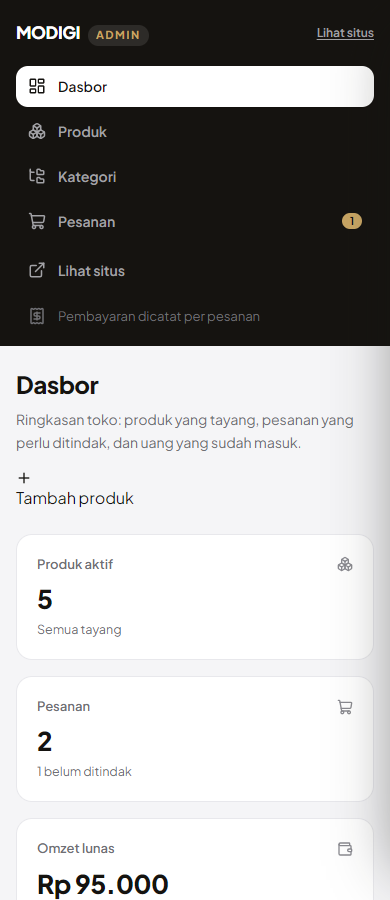
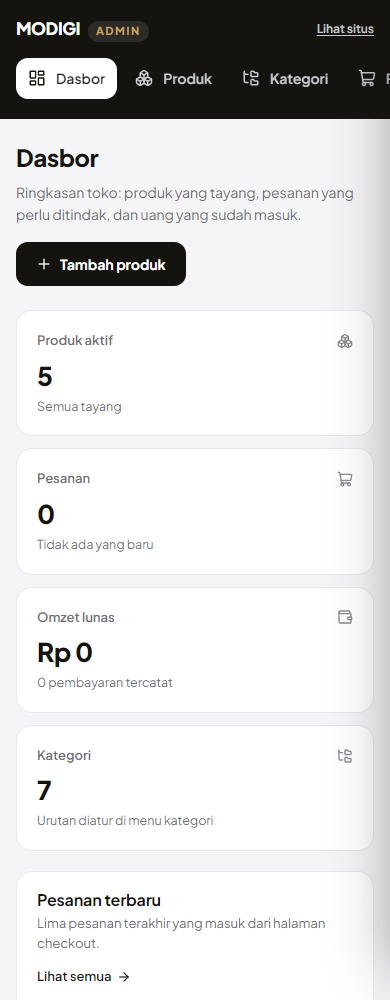
Perbaiki tata letak dashboard admin di layar lebar dan gaya tombolnya
Dua masalah nyata yang terlihat di tangkapan layar:

1. Gaya tombol hilang. `tombol` diekspor dari `components/admin/buttons.tsx`
   yang ber-"use client", sehingga saat dipakai Server Component nilainya
   menjadi client reference — `className` jadi kosong dan tombolnya kehilangan
   latar, padding, serta `display: flex` (ikon dan teks bertumpuk vertikal).
   Konstanta gayanya dipindah ke `components/admin/tombol.ts` (modul biasa),
   sementara `buttons.tsx` hanya mengekspor komponen yang butuh useFormStatus.

2. Sidebar mengambang di layar >=1500px karena pembungkus ber-max-width ada di
   seluruh halaman, bukan di kontennya. Sekarang sidebar menempel di tepi kiri
   setinggi layar dan lebar kontennya dibatasi di dalam <main>.

Di layar kecil, menu jadi baris geser horizontal (tinggi header turun dari
346px jadi 119px), pintasan dasbor tersusun dua kolom, dan kartu "Pesanan
terbaru" tidak lagi melar mengikuti kartu di sebelahnya.

Diukur di 5 lebar layar x 5 halaman: overflow 0, tidak ada target sentuh
< 24px, kontras teks terendah 4,6:1, satu <h1> per halaman.

🤖 Generated with Codebuff

diff --git a/src/components/admin/admin-shell.tsx b/src/components/admin/admin-shell.tsx
@@ -7,7 +7,17 @@ import { keluarAction } from "@/app/actions/admin";
 import { AdminNav } from "@/components/admin/admin-nav";
 
 /**
- * Kerangka dashboard: sidebar gelap (desktop kiri, konten kanan).
+ * Kerangka dashboard.
+ *
+ * Tata letaknya sengaja sederhana supaya tetap benar di semua lebar:
+ * - **Sidebar menempel di tepi kiri** dan setinggi layar (desktop). Tidak ada
+ *   pembungkus ber-`max-width` di sekelilingnya — kalau ada, sidebar-nya "mengambang"
+ *   dengan celah kosong di kiri pada layar ≥1500px.
+ * - **Lebar konten dibatasi di dalam `<main>`**, bukan di seluruh halaman, jadi
+ *   kartu & formulir tetap enak dibaca di monitor lebar sementara sidebar tetap
+ *   menempel di tepi.
+ * - **Di layar kecil** sidebar jadi header ringkas: nama brand + baris menu yang
+ *   bisa digeser ke samping (pola yang sama dengan chip kategori di situs depan).
  *
  * Tombol "Keluar" memakai `<form action={...}>` server action — jadi logout tetap
  * jalan walau JavaScript belum sempat termuat.
@@ -24,9 +34,9 @@ export function AdminShell({
 }) {
   return (
     <div className="min-h-dvh bg-[#f5f5f7] text-[#151310]">
-      <div className="mx-auto flex max-w-[1500px] flex-col lg:flex-row">
-        <aside className="shrink-0 bg-[#151310] px-4 py-5 lg:sticky lg:top-0 lg:h-screen lg:w-[252px] lg:px-4 lg:py-6">
-          <div className="flex items-center justify-between gap-3 lg:block">
+      <div className="flex min-h-dvh flex-col lg:flex-row">
+        <aside className="shrink-0 bg-[#151310] px-4 py-4 lg:sticky lg:top-0 lg:h-dvh lg:w-[252px] lg:self-start lg:px-4 lg:py-6">
+          <div className="flex items-center justify-between gap-3">
             <Link href="/admin" className="flex items-baseline gap-2">
               <span className="text-[17px] font-extrabold tracking-tight text-white">MODIGI</span>
               <span className="rounded-full bg-white/10 px-2 py-0.5 text-[11px] font-bold tracking-[0.14em] text-[#c9a664] uppercase">
@@ -36,25 +46,25 @@ export function AdminShell({
 
             <Link
               href="/"
-              className="inline-flex min-h-6 items-center text-[12px] font-semibold text-[#a2a2a6] underline underline-offset-2 lg:hidden"
+              className="inline-flex min-h-6 items-center text-[12px] font-semibold text-[#c9c9ce] underline underline-offset-2 lg:hidden"
             >
               Lihat situs
             </Link>
           </div>
 
-          <div className="mt-5 lg:mt-7">
+          <div className="mt-4 lg:mt-7">
             <AdminNav lencanaPesanan={lencanaPesanan} />
           </div>
 
           <div className="mt-6 hidden border-t border-white/10 pt-4 lg:block">
-            <p className="truncate text-[12px] text-[#a2a2a6]" title={akun}>
+            <p className="truncate text-[12px] text-[#c9c9ce]" title={akun}>
               {akun}
             </p>
 
             <form action={keluarAction} className="mt-2">
               <button
                 type="submit"
-                className="inline-flex min-h-6 items-center gap-2 text-[13px] font-semibold text-[#a2a2a6] transition-colors hover:text-white"
+                className="inline-flex min-h-6 items-center gap-2 text-[13px] font-semibold text-[#c9c9ce] transition-colors hover:text-white"
               >
                 <LogOut className="size-4" aria-hidden="true" />
                 Keluar
@@ -63,8 +73,8 @@ export function AdminShell({
           </div>
         </aside>
 
-        <main className="min-w-0 flex-1 pb-16">
-          <div className="px-4 py-5 sm:px-6 lg:px-8 lg:py-8">
+        <main className="min-w-0 flex-1">
+          <div className="mx-auto w-full max-w-[1240px] px-4 py-5 sm:px-6 lg:px-8 lg:py-8">
             {children}
 
             <form action={keluarAction} className="mt-10 lg:hidden">
@@ -73,7 +83,7 @@ export function AdminShell({
                 className="inline-flex min-h-6 items-center gap-2 text-[13px] font-semibold text-[#6f6f74] underline underline-offset-2"
               >
                 <LogOut className="size-4" aria-hidden="true" />
-                Keluar dari {akun}
+                Keluar dari {akun.toLowerCase()}
               </button>
             </form>
           </div>

diff --git a/src/app/(admin)/admin/(panel)/page.tsx b/src/app/(admin)/admin/(panel)/page.tsx
@@ -11,7 +11,7 @@ import {
   Wallet,
 } from "lucide-react";
 
-import { tombol } from "@/components/admin/buttons";
+import { tombol } from "@/components/admin/tombol";
 import { Alert, Card, PageHeader, Pill, statusPesananNada } from "@/components/admin/ui";
 import { cloudinarySiap } from "@/lib/cloudinary";
 import { formatRupiah, formatWaktu } from "@/lib/format";
@@ -112,7 +112,7 @@ export default async function DasborPage() {
         </Alert>
       ) : null}
 
-      <div className="grid gap-4 sm:grid-cols-2 xl:grid-cols-4">
+      <div className="grid gap-3 sm:grid-cols-2 xl:grid-cols-4 xl:gap-4">
         {statistik.map(({ label, value, catatan, href, icon: Icon }) => (
           <Link
             key={label}
@@ -133,7 +133,9 @@ export default async function DasborPage() {
         ))}
       </div>
 
-      <div className="mt-5 grid gap-5 lg:grid-cols-[1.4fr_1fr]">
+      {/* `items-start`: kartunya setinggi isinya masing-masing, jadi keadaan kosong
+          tidak dipaksa melar mengikuti kartu di sebelahnya. */}
+      <div className="mt-5 grid items-start gap-5 lg:grid-cols-[1.5fr_1fr]">
         <Card
           title="Pesanan terbaru"
           description="Lima pesanan terakhir yang masuk dari halaman checkout."
@@ -149,7 +151,7 @@ export default async function DasborPage() {
           bodyClassName="px-0 py-0"
         >
           {(pesananTerbaru.data ?? []).length === 0 ? (
-            <p className="px-5 py-8 text-center text-[13.5px] text-[#6f6f74]">
+            <p className="px-5 py-10 text-center text-[13.5px] leading-relaxed text-[#6f6f74]">
               Belum ada pesanan. Pesanan muncul di sini begitu pembeli menekan
               <span className="font-semibold"> Buat Pesanan</span> di halaman checkout.
             </p>
@@ -181,28 +183,40 @@ export default async function DasborPage() {
         </Card>
 
         <Card title="Yang sering dipakai" description="Pintasan ke pekerjaan harian.">
-          <ul className="flex flex-col gap-3">
+          <ul className="grid gap-3 sm:grid-cols-2 lg:grid-cols-1 xl:grid-cols-2">
             <li>
-              <Link href="/admin/produk/baru" className={tombol.kedua + " w-full justify-start"}>
-                <Plus className="size-4" aria-hidden="true" />
+              <Link
+                href="/admin/produk/baru"
+                className={tombol.kedua + " w-full justify-start gap-2.5 text-[13.5px]"}
+              >
+                <Plus className="size-4 shrink-0" aria-hidden="true" />
                 Tambah produk baru
               </Link>
             </li>
             <li>
-              <Link href="/admin/produk" className={tombol.kedua + " w-full justify-start"}>
-                <CloudUpload className="size-4" aria-hidden="true" />
-                Unggah & ganti gambar produk
+              <Link
+                href="/admin/produk"
+                className={tombol.kedua + " w-full justify-start gap-2.5 text-[13.5px]"}
+              >
+                <CloudUpload className="size-4 shrink-0" aria-hidden="true" />
+                Unggah & ganti gambar
               </Link>
             </li>
             <li>
-              <Link href="/admin/kategori" className={tombol.kedua + " w-full justify-start"}>
-                <FolderTree className="size-4" aria-hidden="true" />
-                Atur kategori & urutannya
+              <Link
+                href="/admin/kategori"
+                className={tombol.kedua + " w-full justify-start gap-2.5 text-[13.5px]"}
+              >
+                <FolderTree className="size-4 shrink-0" aria-hidden="true" />
+                Atur kategori & urutan
               </Link>
             </li>
             <li>
-              <Link href="/admin/pesanan" className={tombol.kedua + " w-full justify-start"}>
-                <Receipt className="size-4" aria-hidden="true" />
+              <Link
+                href="/admin/pesanan"
+                className={tombol.kedua + " w-full justify-start gap-2.5 text-[13.5px]"}
+              >
+                <Receipt className="size-4 shrink-0" aria-hidden="true" />
                 Catat pembayaran masuk
               </Link>
             </li>

diff --git a/src/components/admin/admin-nav.tsx b/src/components/admin/admin-nav.tsx
@@ -1,6 +1,6 @@
 "use client";
 
-import { Boxes, ExternalLink, FolderTree, LayoutDashboard, Receipt, ShoppingCart } from "lucide-react";
+import { Boxes, ExternalLink, FolderTree, LayoutDashboard, ShoppingCart } from "lucide-react";
 import Link from "next/link";
 import { usePathname } from "next/navigation";
 import type { ComponentType } from "react";
@@ -16,7 +16,12 @@ type Menu = {
 };
 
 /**
- * Menu sidebar dashboard.
+ * Menu dashboard.
+ *
+ * Dua bentuk dari satu daftar yang sama:
+ * - **< lg**: baris geser horizontal di bawah nama brand — hemat tinggi layar,
+ *   pola yang sama dengan chip kategori di situs depan.
+ * - **≥ lg**: kolom vertikal di sidebar.
  *
  * Satu komponen klien kecil hanya untuk menandai halaman aktif (`usePathname`) —
  * sisanya tetap server component, jadi data tidak ikut dikirim ke browser.
@@ -35,7 +40,10 @@ export function AdminNav({ lencanaPesanan }: { lencanaPesanan: number }) {
     href === "/admin" ? pathname === "/admin" : pathname.startsWith(href);
 
   return (
-    <nav aria-label="Menu dashboard" className="flex flex-col gap-1">
+    <nav
+      aria-label="Menu dashboard"
+      className="-mx-4 flex gap-1.5 overflow-x-auto px-4 pb-1 lg:mx-0 lg:flex-col lg:gap-1 lg:overflow-visible lg:px-0 lg:pb-0 [scrollbar-width:none] [&::-webkit-scrollbar]:hidden"
+    >
       {menu.map(({ label, href, icon: Icon, lencana }) => {
         const ini = aktif(href);
 
@@ -45,12 +53,12 @@ export function AdminNav({ lencanaPesanan }: { lencanaPesanan: number }) {
             href={href}
             aria-current={ini ? "page" : undefined}
             className={cn(
-              "flex items-center gap-3 rounded-xl px-3 py-2.5 text-[14px] font-semibold transition-colors",
-              ini ? "bg-white text-[#151310] shadow-sm" : "text-[#a2a2a6] hover:bg-white/5 hover:text-white",
+              "flex shrink-0 items-center gap-2.5 rounded-xl px-3 py-2.5 text-[14px] font-semibold whitespace-nowrap transition-colors lg:gap-3",
+              ini ? "bg-white text-[#151310] shadow-sm" : "text-[#c9c9ce] hover:bg-white/5 hover:text-white",
             )}
           >
             <Icon className="size-[18px] shrink-0" aria-hidden="true" />
-            <span className="flex-1">{label}</span>
+            <span>{label}</span>
 
             {lencana ? (
               <span className="tabular grid min-w-5 place-items-center rounded-full bg-[#c9a664] px-1.5 text-[11px] font-bold text-[#151310]">
@@ -63,16 +71,11 @@ export function AdminNav({ lencanaPesanan }: { lencanaPesanan: number }) {
 
       <Link
         href="/"
-        className="mt-1 flex items-center gap-3 rounded-xl px-3 py-2.5 text-[14px] font-semibold text-[#a2a2a6] transition-colors hover:bg-white/5 hover:text-white"
+        className="hidden min-h-6 items-center gap-3 rounded-xl px-3 py-2.5 text-[14px] font-semibold text-[#c9c9ce] transition-colors hover:bg-white/5 hover:text-white lg:mt-1 lg:flex"
       >
         <ExternalLink className="size-[18px] shrink-0" aria-hidden="true" />
         Lihat situs
       </Link>
-
-      <span className="mt-3 flex items-center gap-3 px-3 text-[13px] text-[#6f6f74]">
-        <Receipt className="size-[18px] shrink-0" aria-hidden="true" />
-        Pembayaran dicatat per pesanan
-      </span>
     </nav>
   );
 }

diff --git a/src/components/admin/buttons.tsx b/src/components/admin/buttons.tsx
@@ -3,6 +3,7 @@
 import { Loader2 } from "lucide-react";
 import { useFormStatus } from "react-dom";
 
+import { tombol, type VarianTombol } from "@/components/admin/tombol";
 import { cn } from "@/lib/utils";
 
 /**
@@ -15,19 +16,10 @@ import { cn } from "@/lib/utils";
  *
  * Keduanya ditaruh DI DALAM `<form action={...}>` — jadi kalau JavaScript belum
  * termuat, form-nya tetap bisa dikirim (hanya tanpa konfirmasi/pending state).
+ *
+ * Gaya tombolnya ada di `tombol.ts` (modul biasa) — lihat penjelasan di sana soal
+ * kenapa tidak boleh diekspor dari file `"use client"`.
  */
-
-/** Gaya tombol bersama. */
-export const tombol = {
-  utama:
-    "inline-flex h-11 items-center justify-center gap-2 rounded-xl bg-[#151310] px-5 text-[14px] font-bold text-white transition-colors hover:bg-[#2a2723] focus-visible:ring-2 focus-visible:ring-[#151310]/30 focus-visible:outline-none disabled:opacity-60",
-  kedua:
-    "inline-flex h-11 items-center justify-center gap-2 rounded-xl border border-[#e2e2e7] bg-white px-5 text-[14px] font-bold text-[#151310] transition-colors hover:bg-[#f7f7f9] focus-visible:ring-2 focus-visible:ring-[#151310]/20 focus-visible:outline-none disabled:opacity-60",
-  kecil:
-    "inline-flex h-9 items-center justify-center gap-1.5 rounded-lg border border-[#e2e2e7] bg-white px-3 text-[13px] font-semibold text-[#3a3a3f] transition-colors hover:bg-[#f7f7f9] focus-visible:ring-2 focus-visible:ring-[#151310]/20 focus-visible:outline-none disabled:opacity-60",
-  bahaya:
-    "inline-flex h-9 items-center justify-center gap-1.5 rounded-lg border border-[#f0d5d1] bg-[#fdf4f3] px-3 text-[13px] font-semibold text-[#a32b1d] transition-colors hover:bg-[#fbe9e7] focus-visible:ring-2 focus-visible:ring-[#a32b1d]/25 focus-visible:outline-none disabled:opacity-60",
-} as const;
 
 export function SubmitButton({
   children,
@@ -37,7 +29,7 @@ export function SubmitButton({
 }: {
   children: React.ReactNode;
   pendingLabel?: string;
-  variant?: keyof typeof tombol;
+  variant?: VarianTombol;
   className?: string;
 }) {
   const { pending } = useFormStatus();
@@ -60,7 +52,7 @@ export function ConfirmSubmit({
   children: React.ReactNode;
   /** Pertanyaan konfirmasi, mis. "Hapus produk ini?" */
   message: string;
-  variant?: keyof typeof tombol;
+  variant?: VarianTombol;
   className?: string;
   title?: string;
 }) {

diff --git a/src/components/admin/tombol.ts b/src/components/admin/tombol.ts
@@ -1,0 +1,25 @@
+/**
+ * Gaya tombol dashboard — **modul biasa, TANPA `"use client"`**.
+ *
+ * Ini bukan detail gaya penulisan: nilai yang diekspor dari file `"use client"`
+ * berubah menjadi *client reference* saat diimpor oleh Server Component. Dipakai
+ * sebagai `className`, nilainya jadi kosong — tombolnya kehilangan latar, padding,
+ * dan `display: flex`, sehingga ikon dan teksnya bertumpuk vertikal. Itu yang
+ * terjadi pada versi pertama dashboard ini.
+ *
+ * Karena itu kelas tombolnya tinggal di file `.ts` biasa (dipakai server component
+ * maupun client component), sedangkan `buttons.tsx` (yang butuh `useFormStatus`)
+ * hanya mengekspor komponennya.
+ */
+export type VarianTombol = keyof typeof tombol;
+
+export const tombol = {
+  utama:
+    "inline-flex h-11 items-center justify-center gap-2 rounded-xl bg-[#151310] px-5 text-[14px] font-bold text-white transition-colors hover:bg-[#2a2723] focus-visible:ring-2 focus-visible:ring-[#151310]/30 focus-visible:outline-none disabled:opacity-60",
+  kedua:
+    "inline-flex h-11 items-center justify-center gap-2 rounded-xl border border-[#e2e2e7] bg-white px-5 text-[14px] font-bold text-[#151310] transition-colors hover:bg-[#f7f7f9] focus-visible:ring-2 focus-visible:ring-[#151310]/20 focus-visible:outline-none disabled:opacity-60",
+  kecil:
+    "inline-flex h-9 items-center justify-center gap-1.5 rounded-lg border border-[#e2e2e7] bg-white px-3 text-[13px] font-semibold text-[#3a3a3f] transition-colors hover:bg-[#f7f7f9] focus-visible:ring-2 focus-visible:ring-[#151310]/20 focus-visible:outline-none disabled:opacity-60",
+  bahaya:
+    "inline-flex h-9 items-center justify-center gap-1.5 rounded-lg border border-[#f0d5d1] bg-[#fdf4f3] px-3 text-[13px] font-semibold text-[#a32b1d] transition-colors hover:bg-[#fbe9e7] focus-visible:ring-2 focus-visible:ring-[#a32b1d]/25 focus-visible:outline-none disabled:opacity-60",
+} as const;

diff --git a/src/app/(admin)/admin/(panel)/produk/page.tsx b/src/app/(admin)/admin/(panel)/produk/page.tsx
@@ -4,7 +4,8 @@ import Link from "next/link";
 import { ExternalLink, ImageIcon, Pencil, Plus, Trash2 } from "lucide-react";
 
 import { hapusProdukAction, ubahStatusProdukAction } from "@/app/actions/admin";
-import { ConfirmSubmit, SubmitButton, tombol } from "@/components/admin/buttons";
+import { ConfirmSubmit, SubmitButton } from "@/components/admin/buttons";
+import { tombol } from "@/components/admin/tombol";
 import { Alert, Card, EmptyState, PageHeader, Pill } from "@/components/admin/ui";
 import { formatRupiah } from "@/lib/format";
 import { ambilSupabase, supabaseSiap, type BarisKategori, type BarisProduk } from "@/lib/supabase";

diff --git a/src/components/admin/product-form.tsx b/src/components/admin/product-form.tsx
@@ -3,7 +3,8 @@ import Link from "next/link";
 import { ExternalLink, ImageIcon } from "lucide-react";
 
 import { simpanProdukAction } from "@/app/actions/admin";
-import { SubmitButton, tombol } from "@/components/admin/buttons";
+import { SubmitButton } from "@/components/admin/buttons";
+import { tombol } from "@/components/admin/tombol";
 import { Card, Field, Input, Select, Textarea } from "@/components/admin/ui";
 import type { BarisKategori, BarisProduk } from "@/lib/supabase";
 
